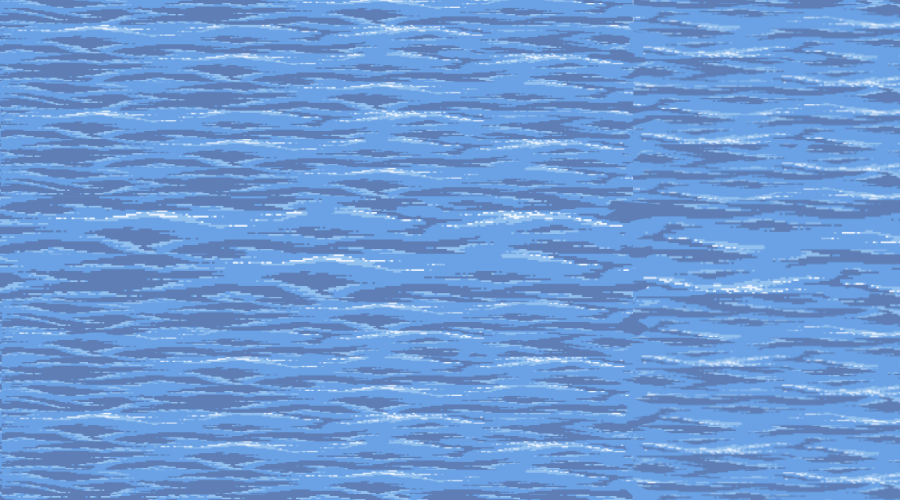
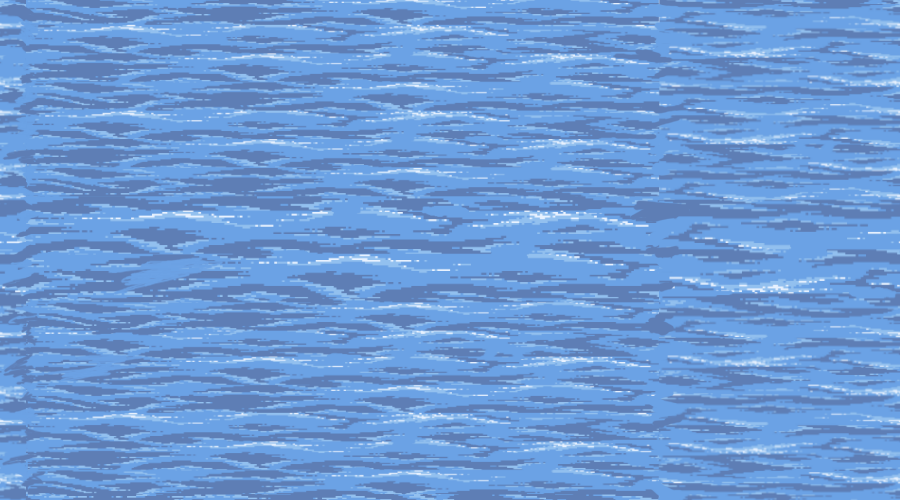
Improved scrolling

diff --git a/main.py b/main.py
@@ -33,6 +33,16 @@ def draw_window(list : LinkedList.LinkedList()):
 
     while curr:
         WIN.blit(curr.data.image, (curr.data.get_x(), curr.data.get_y()))
+
+        if curr.data.image is SHARK:
+            if curr.data.get_x() < 0:
+                curr.data.set_x(-BACKGROUND_SPEED)
+        else:
+            curr.data.set_x(-BACKGROUND_SPEED)
+
+            if curr.data.get_x() < -10:
+                curr.data.set_x(random.randint(10, 910) + WIDTH)
+                curr.data.hitbox.y = (random.randint(10, 450))
         curr = curr.next
 
     pygame.display.update()
@@ -68,12 +78,10 @@ def main():
     list = LinkedList.LinkedList()
 
     shark = sprites.Sprites(SHARK, pygame.Rect(10, 300, SHARK_WIDTH, SHARK_HEIGHT))
-    trash = sprites.Sprites(BOTTLES[random.randint(0, 3)], pygame.Rect(random.randint(10, 500), random.randint(10, 500), 10, 10))
 
     for i in range(10):
-        list.push(sprites.Sprites(BOTTLES[random.randint(0, 3)], pygame.Rect(random.randint(100, 900), random.randint(10, 600), 10, 10)))
+        list.push(sprites.Sprites(BOTTLES[random.randint(0, 3)], pygame.Rect(random.randint(300, 900), random.randint(10, 600), 10, 10)))
 
-    list.push(trash)
     list.push(shark)
     pygame.display.set_caption("PISTRIS")
 
@@ -81,6 +89,7 @@ def main():
         clock.tick(FPS)
         time += 1
 
+        # Scrolling background, resets background ahead if background hits fully offscreen
         for i in range(3):
             OCEAN[i] -= BACKGROUND_SPEED
 
